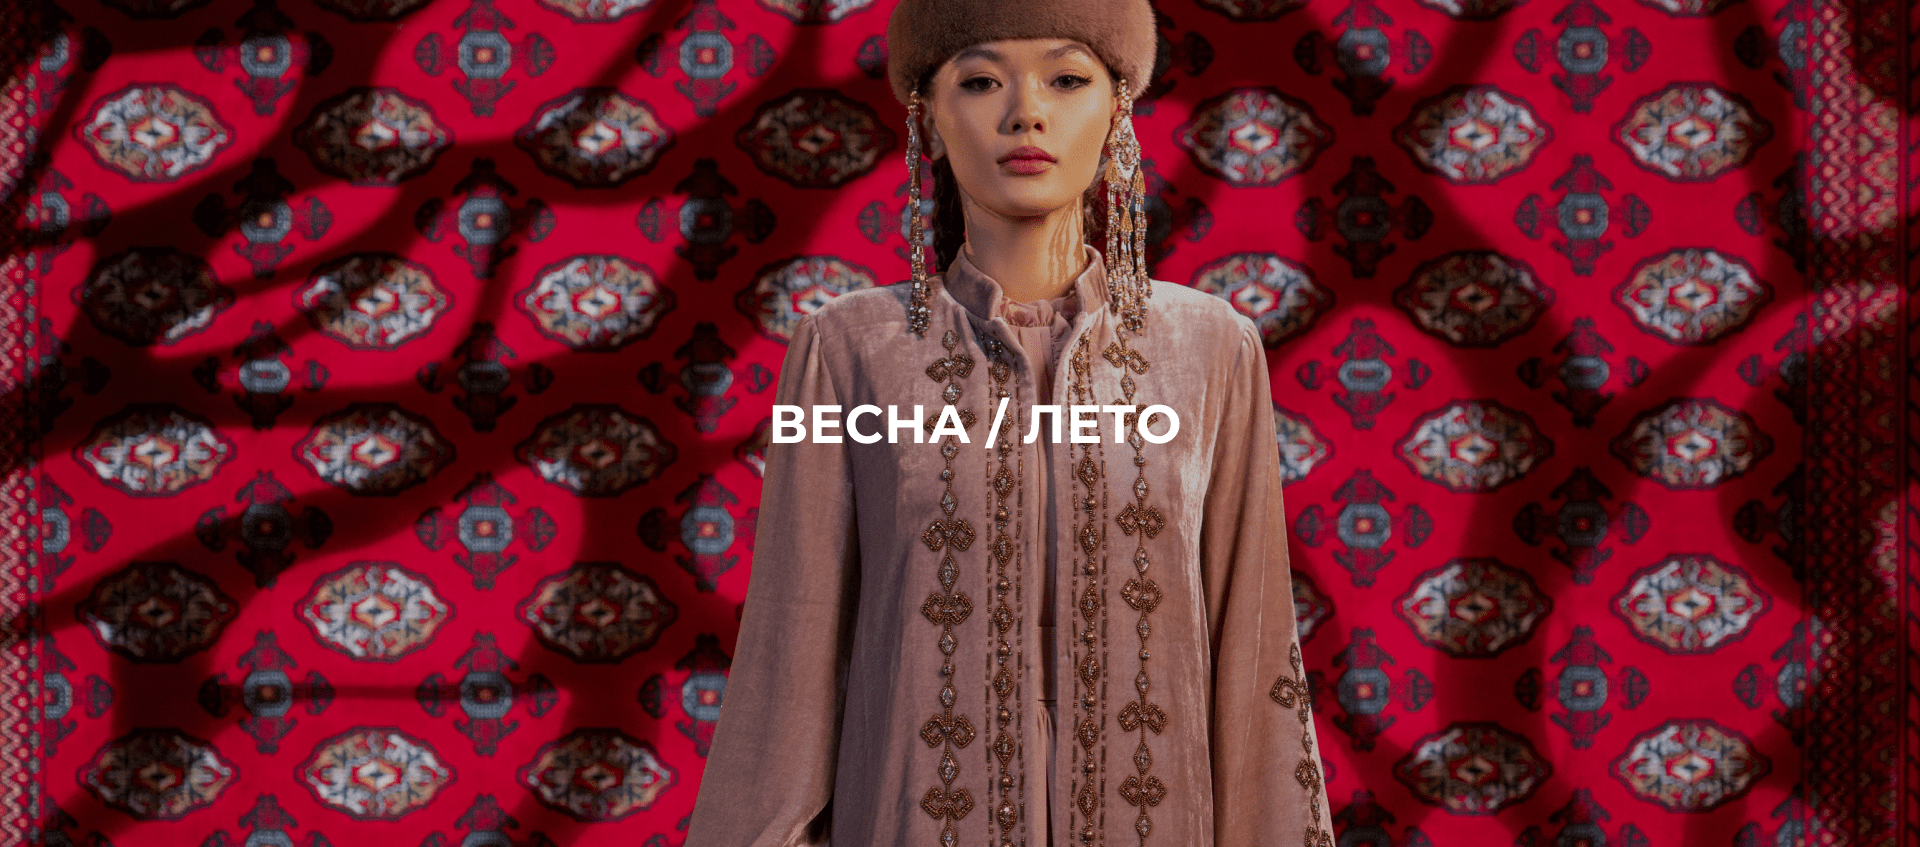
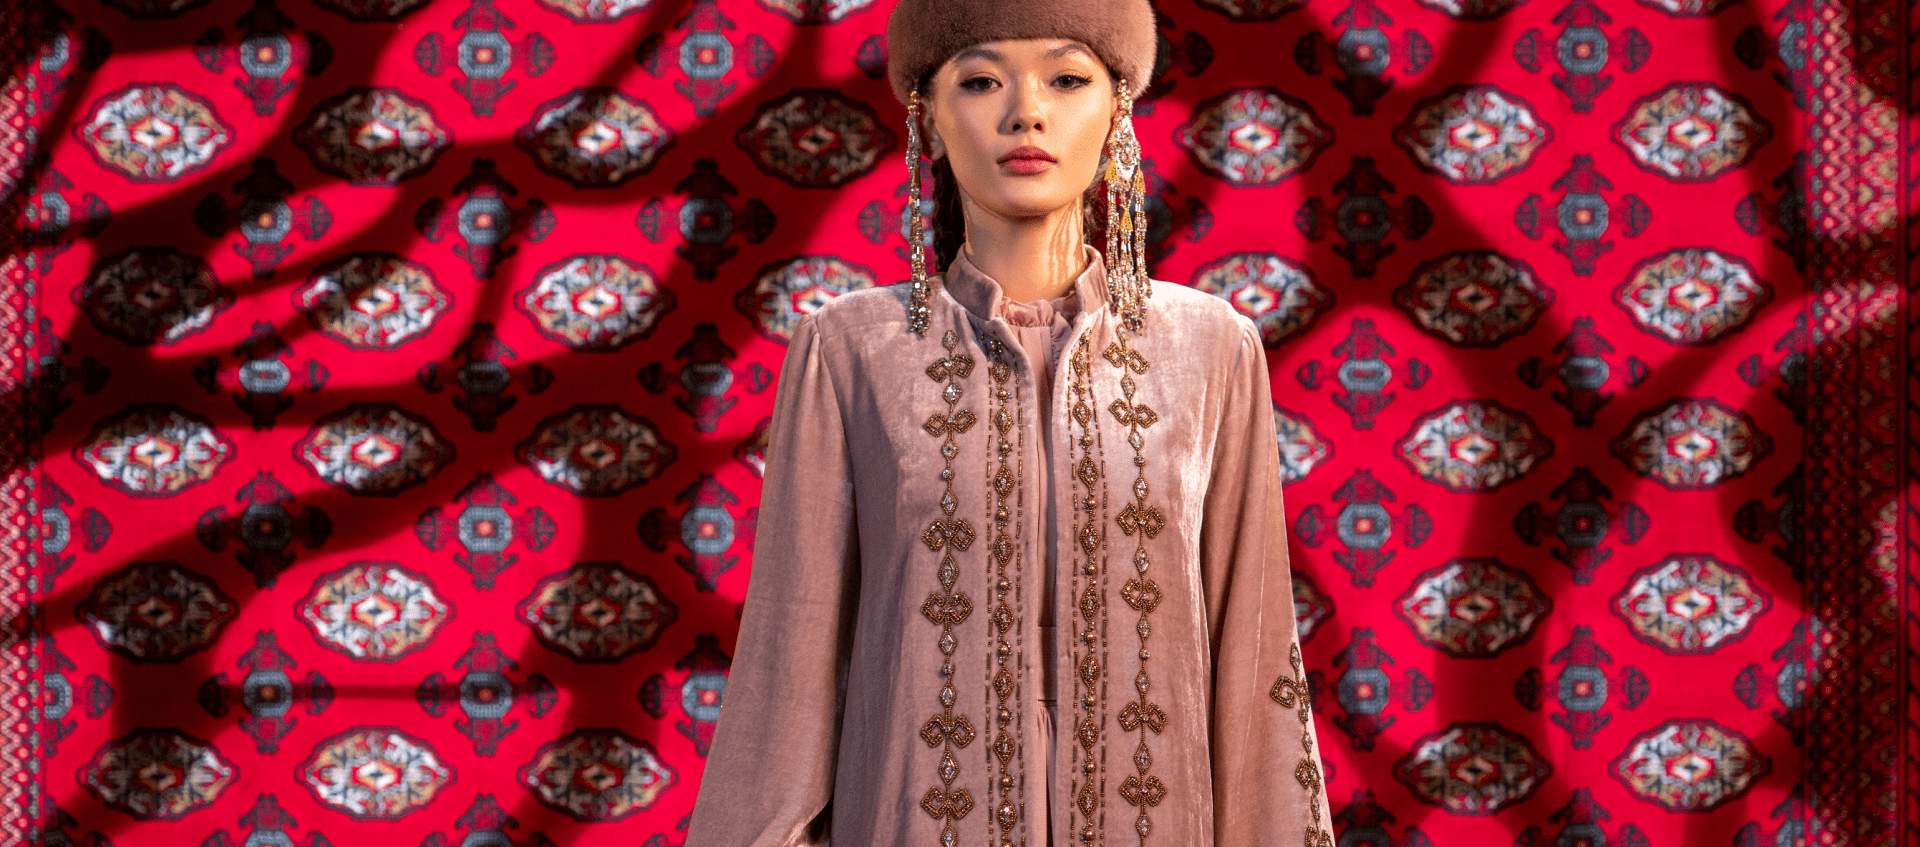
font added

diff --git a/about-designer.html b/about-designer.html
@@ -37,7 +37,7 @@
                             </div>
                         </div>
                     </div>
-                    <a href="/index.html" class="font-mont text-gray-800 text-2xl hover:cursor-pointer px-4 font-semibold">
+                    <a href="/index.html" class="font-logo text-gray-800 text-2xl tracking-[.5rem] hover:cursor-pointer px-4 font-semibold">
                         NURSHAH
                     </a>
                     <a href="/pret-a-porter.html" class="font-mont text-gray-600 hover:underline hover:cursor-pointer">Pret-a-porter</a>
@@ -78,7 +78,6 @@
                         <img src="./assets/imgs/designer1.png" width="200">
                     </div>
                 </div>
-
             </div>
         </div>
         <div class="container-sm pt-10">
@@ -99,10 +98,10 @@
         </div>
 
         <div class="bg-[#242222] mt-20">
-            <div class="container-sm py-8">
-                <div class="grid grid-cols-1 md:grid-cols-2 items-center gap-8">
-                    <p class="font-mont text-white text-4xl tracking-widest">NEW <span class="font-rock">LEVEL</span></p>
-                    <p class="font-mont text-white text-sm">
+            <div class="container-sm py-10">
+                <div class="grid grid-cols-1 md:grid-cols-3 items-center gap-8">
+                    <p class="font-mont text-white text-3xl tracking-widest">NEW <span class="font-rock">LEVEL</span></p>
+                    <p class="font-mont text-gray-200 text-sm col-span-2">
                         С самого начала, ателье специализировалось на пошиве национальной одежды. Но постепенно, Нуржамал решила соединить казахские традиции и современные модные тенденции в своих костюмах. Она стала создавать уникальные вещи в национальном стиле, для повседневной жизни и выходов в свет. Вскоре о «NUR SHAH» узнали модницы из высшего общества, появились первые крупные заказы. И это стало очередным головокружительным витком в деле ее жизни. Нуржамал Нурпейсова превратилась во владелицу собственного Дома Моды и успешного модного бренда!
                     </p>
                 </div>

diff --git a/collection.html b/collection.html
@@ -37,7 +37,7 @@
                             </div>
                         </div>
                     </div>
-                    <a href="/index.html" class="font-mont text-gray-800 text-2xl hover:cursor-pointer px-4 font-semibold">
+                    <a href="/index.html" class="font-logo text-gray-800 text-2xl tracking-[.5rem] hover:cursor-pointer px-4 font-semibold">
                         NURSHAH
                     </a>
                     <a href="/pret-a-porter.html" class="font-mont text-gray-600 hover:underline hover:cursor-pointer">Pret-a-porter</a>
@@ -55,14 +55,11 @@
         </nav>
     </header>
     <main class="py-10 md:py-20">
-        <div class="container-sm pt-10 pb-4">
-            <div class="text-gray-500 font-mont">Коллекции</div>
-        </div>
         <div class="grid grid-cols-2">
             <a href="/collection-spring-summer.html" class="relative collection">
                 <div class="name opacity-1 lg:opacity-0 transition ease-in-out duration-300 absolute top-1/2 z-20 w-full">
                     <div class="flex items-center justify-center">
-                        <p class="font-semibold text-2xl lg:text-5xl font-mont text-white">ВЕСНА/ЛЕТО</p>
+                        <p class="font-semibold text-2xl lg:text-5xl text-white font-logo">ВЕСНА/ЛЕТО</p>
                     </div>
                 </div>
                 <img src="/assets/imgs/collection/spring.png" class="w-full min-h-[400px] object-cover">
@@ -70,7 +67,7 @@
             <a href="/collection-autumn-winter.html" class="relative collection">
                 <div class="name opacity-1 lg:opacity-0 transition ease-in-out duration-300 absolute top-1/2 z-20 w-full">
                     <div class="flex items-center justify-center">
-                        <p class="font-semibold text-2xl lg:text-5xl font-mont text-white">ОСЕНЬ/ЗИМА</p>
+                        <p class="font-semibold text-2xl lg:text-5xl text-white font-logo">ОСЕНЬ/ЗИМА</p>
                     </div>
                 </div>
                 <img src="/assets/imgs/collection/winter.png" class="w-full min-h-[400px] object-cover">

diff --git a/contact.html b/contact.html
@@ -37,7 +37,7 @@
                             </div>
                         </div>
                     </div>
-                    <a href="/index.html" class="font-mont text-gray-800 text-2xl hover:cursor-pointer px-4 font-semibold">
+                    <a href="/index.html" class="font-logo text-gray-800 text-2xl tracking-[.5rem] hover:cursor-pointer px-4 font-semibold">
                         NURSHAH
                     </a>
                     <a href="/pret-a-porter.html" class="font-mont text-gray-600 hover:underline hover:cursor-pointer">Pret-a-porter</a>
@@ -57,7 +57,7 @@
     <main class="py-24 md:py-32">
         <div class="container-sm py-10">
             <div class="flex flex-col space-y-10 md:space-y-16">
-                <div class="font-mont text-4xl md:text-5xl font-semibold">CONTACT</div>
+                <div class="font-logo tracking-widest text-4xl md:text-5xl font-semibold">CONTACT</div>
                 <div class="flex flex-wrap items-start justify-between gap-8">
                     <div class="flex flex-col space-y-4 max-w-[200px]">
                         <p class="font-mont text-xl font-medium text-gray-800">Адрес:</p>

diff --git a/collection-autumn-winter.html b/collection-autumn-winter.html
@@ -37,7 +37,7 @@
                             </div>
                         </div>
                     </div>
-                    <a href="/index.html" class="font-mont text-gray-800 text-2xl hover:cursor-pointer px-4 font-semibold">
+                    <a href="/index.html" class="font-logo text-gray-800 text-2xl tracking-[.5rem] hover:cursor-pointer px-4 font-semibold">
                         NURSHAH
                     </a>
                     <a href="/pret-a-porter.html" class="font-mont text-gray-600 hover:underline hover:cursor-pointer">Pret-a-porter</a>
@@ -57,6 +57,11 @@
     <main class="pt-10 pb-20">
         <div class="relative">
             <img src="/assets/imgs/collection/autumn-winter/main.png" class="w-full object-cover aspect-square md:aspect-video">
+            <div class="absolute top-1/2 w-full">
+                <div class="flex justify-center">
+                    <p class="font-bold text-4xl md:text-6xl text-white font-logo tracking-widest">ОСЕНЬ / ЗИМА</p>
+                </div>
+            </div>
         </div>
 
         <div class="py-10 md:py-20">

diff --git a/collection-spring-summer.html b/collection-spring-summer.html
@@ -37,7 +37,7 @@
                             </div>
                         </div>
                     </div>
-                    <a href="/index.html" class="font-mont text-gray-800 text-2xl hover:cursor-pointer px-4 font-semibold">
+                    <a href="/index.html" class="font-logo text-gray-800 text-2xl tracking-[.5rem] hover:cursor-pointer px-4 font-semibold">
                         NURSHAH
                     </a>
                     <a href="/pret-a-porter.html" class="font-mont text-gray-600 hover:underline hover:cursor-pointer">Pret-a-porter</a>
@@ -57,6 +57,12 @@
     <main class="py-20">
         <div class="relative">
             <img src="/assets/imgs/collection/spring-summer/main.png" class="w-full object-cover aspect-square md:aspect-video">
+            <div class="absolute top-1/2 w-full">
+                <div class="flex justify-center">
+                    <p class="font-bold text-4xl md:text-6xl text-white font-logo tracking-widest">ВЕСНА / ЛЕТО</p>
+                </div>
+
+            </div>
         </div>
 
         <div class="py-10 md:py-20">

diff --git a/pret-a-porter.html b/pret-a-porter.html
@@ -37,7 +37,7 @@
                             </div>
                         </div>
                     </div>
-                    <a href="/index.html" class="font-mont text-gray-800 text-2xl hover:cursor-pointer px-4 font-semibold">
+                    <a href="/index.html" class="font-logo text-gray-800 text-2xl tracking-[.5rem] hover:cursor-pointer px-4 font-semibold">
                         NURSHAH
                     </a>
                     <a href="/pret-a-porter.html" class="font-mont text-gray-600 hover:underline hover:cursor-pointer">Pret-a-porter</a>
@@ -57,6 +57,11 @@
     <main class="py-20">
         <div class="relative">
             <img src="/assets/imgs/collection/porter/main.png" class="w-full object-cover aspect-square md:aspect-video">
+            <div class="absolute top-1/2 w-full">
+                <div class="flex justify-center">
+                    <p class="font-bold text-4xl md:text-6xl text-white font-logo tracking-widest">ОСЕНЬ / ЗИМА</p>
+                </div>
+            </div>
         </div>
 
         <div class="py-10 md:py-20">

diff --git a/about-brand.html b/about-brand.html
@@ -37,7 +37,7 @@
                             </div>
                         </div>
                     </div>
-                    <a href="/index.html" class="font-mont text-gray-800 text-2xl hover:cursor-pointer px-4 font-semibold">
+                    <a href="/index.html" class="font-logo text-gray-800 text-2xl tracking-[.5rem] hover:cursor-pointer px-4 font-semibold">
                         NURSHAH
                     </a>
                     <a href="/pret-a-porter.html" class="font-mont text-gray-600 hover:underline hover:cursor-pointer">Pret-a-porter</a>

diff --git a/index.html b/index.html
@@ -37,7 +37,7 @@
                             </div>
                         </div>
                     </div>
-                    <a href="/index.html" class="font-mont text-gray-800 text-2xl hover:cursor-pointer px-4 font-semibold">
+                    <a href="/index.html" class="font-logo text-gray-800 text-2xl tracking-[.5rem] hover:cursor-pointer px-4 font-semibold">
                         NURSHAH
                     </a>
                     <a href="/pret-a-porter.html" class="font-mont text-gray-600 hover:underline hover:cursor-pointer">Pret-a-porter</a>

diff --git a/style.css b/style.css
@@ -1,8 +1,12 @@
 @import url('https://fonts.googleapis.com/css2?family=Montserrat:ital,wght@0,100;0,200;0,300;0,400;0,500;0,600;0,700;0,800;0,900;1,100;1,200;1,300;1,400;1,500;1,600;1,700;1,800;1,900&family=Rock+Salt&display=swap');
-
+@import url('https://fonts.googleapis.com/css2?family=Cormorant+Garamond:ital,wght@0,300;0,400;0,500;0,600;0,700;1,500&display=swap');
 
 .font-mont {
     font-family: 'Montserrat', sans-serif;
+}
+
+.font-logo {
+    font-family: 'Cormorant Garamond', serif;
 }
 
 .font-rock {
